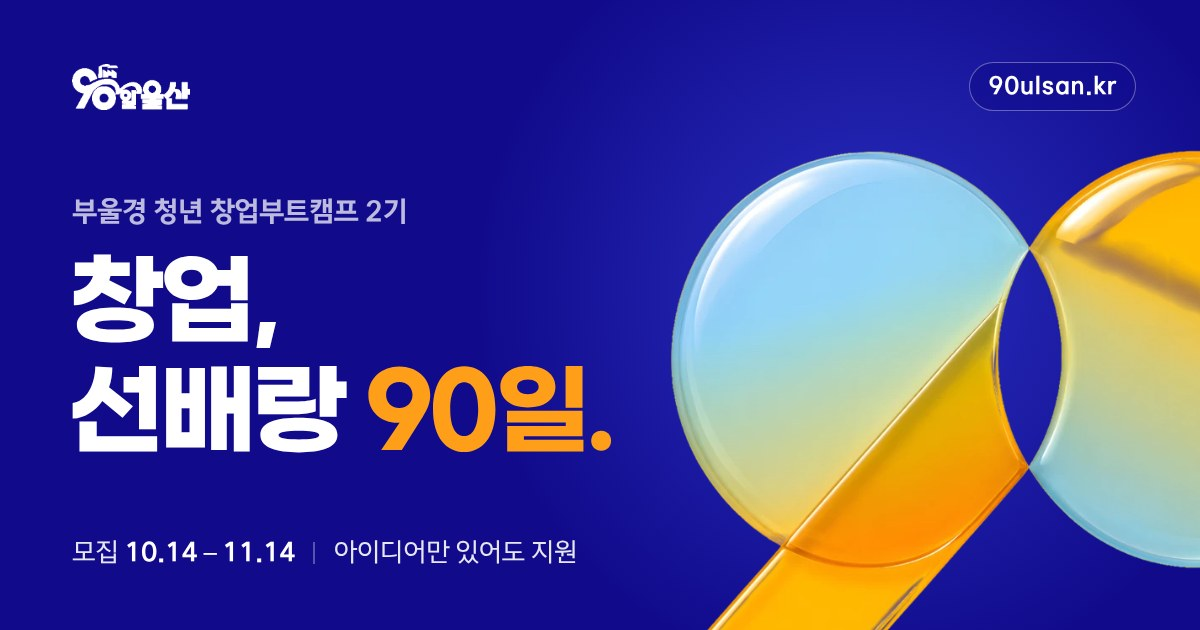
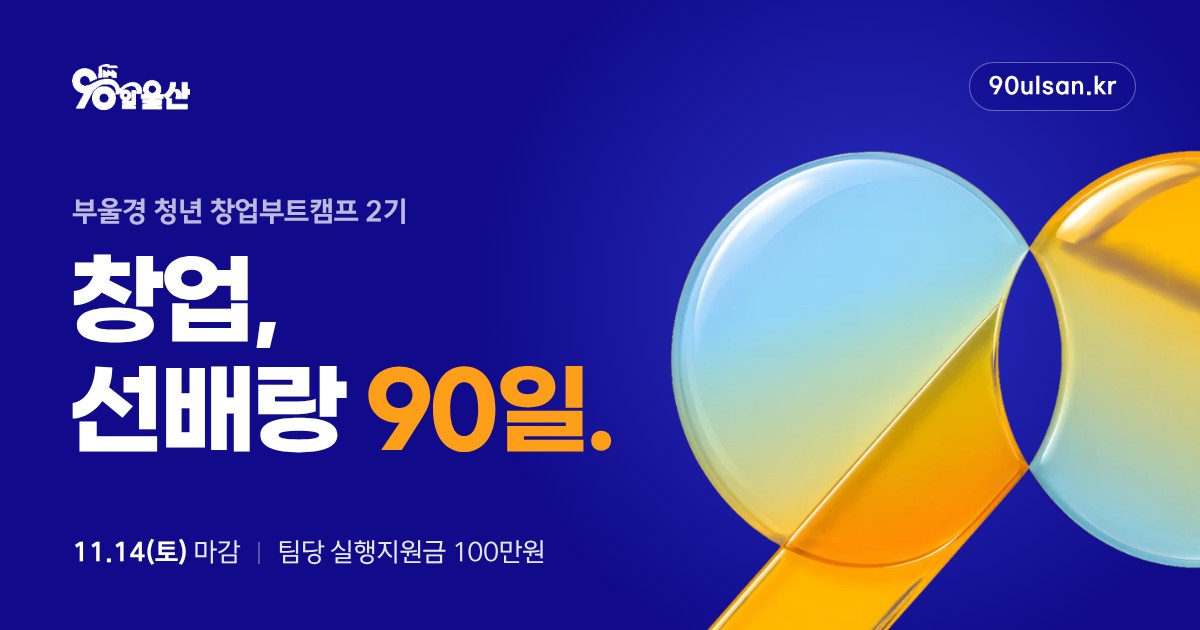
링크 미리보기(OG) 갱신: 모집 10.14 표기 제거 → 11.14(토) 마감·팀당 100만원, 제목·설명 정리
Claude-Session: https://claude.ai/code/session_01UU5TBxw94EbR7PBYQu6TH6

Changed region(s): [[0.0617, 0.8444, 0.4933, 0.9048]]

diff --git a/index.html b/index.html
@@ -5,23 +5,23 @@
 <meta name="viewport" content="width=device-width,initial-scale=1,viewport-fit=cover">
 <script>try{if(matchMedia('(min-width:1024px)').matches&&!/[?&]m=1/.test(location.search))location.replace('pc/'+location.search+location.hash)}catch(e){}</script>
 <title>90일 울산 | 부울경 청년 창업부트캠프 2기 – 혼자 창업 말고, 선배 찬스</title>
-<meta name="description" content="부울경·경북 청년이라면 현직 창업가 선배와 1:1로 90일. 아이디어만 있어도 지원 가능 · 11.14(토) 마감">
+<meta name="description" content="현직 대표·투자자 선배와 1:1, 팀당 실행지원금 100만원. 아이디어만 있어도 OK · 11.14(토) 마감">
 <link rel="canonical" href="https://90ulsan.kr/">
 <meta name="theme-color" content="#000B8C">
 <meta property="og:type" content="website">
 <meta property="og:site_name" content="90일 울산">
 <meta property="og:locale" content="ko_KR">
 <meta property="og:url" content="https://90ulsan.kr/">
-<meta property="og:title" content="혼자 창업 말고, 선배 찬스 | 90일 울산">
-<meta property="og:description" content="부울경·경북 청년이라면 현직 창업가 선배와 1:1로 90일. 아이디어만 있어도 지원 가능 · 11.14(토) 마감">
-<meta property="og:image" content="https://90ulsan.kr/assets/og.jpg">
+<meta property="og:title" content="창업, 선배랑 90일 | 부울경 청년 창업부트캠프 2기">
+<meta property="og:description" content="현직 대표·투자자 선배와 1:1, 팀당 실행지원금 100만원. 아이디어만 있어도 OK · 11.14(토) 마감">
+<meta property="og:image" content="https://90ulsan.kr/assets/og.jpg?v=2">
 <meta property="og:image:width" content="1200">
 <meta property="og:image:height" content="630">
 <meta property="og:image:alt" content="창업, 선배랑 90일. 부울경 청년 창업부트캠프 2기">
 <meta name="twitter:card" content="summary_large_image">
-<meta name="twitter:title" content="혼자 창업 말고, 선배 찬스 | 90일 울산">
-<meta name="twitter:description" content="부울경·경북 청년이라면 현직 창업가 선배와 1:1로 90일. 아이디어만 있어도 지원 가능 · 11.14(토) 마감">
-<meta name="twitter:image" content="https://90ulsan.kr/assets/og.jpg">
+<meta name="twitter:title" content="창업, 선배랑 90일 | 부울경 청년 창업부트캠프 2기">
+<meta name="twitter:description" content="현직 대표·투자자 선배와 1:1, 팀당 실행지원금 100만원. 아이디어만 있어도 OK · 11.14(토) 마감">
+<meta name="twitter:image" content="https://90ulsan.kr/assets/og.jpg?v=2">
 <link rel="icon" href="/favicon.ico" sizes="32x32">
 <link rel="icon" href="/assets/icon.svg" type="image/svg+xml">
 <link rel="apple-touch-icon" href="/assets/apple-touch-icon.png">

diff --git a/pc/index.html b/pc/index.html
@@ -6,12 +6,12 @@
 <script>try{if(!matchMedia('(min-width:1024px)').matches&&!/[?&]pc=1/.test(location.search))location.replace('../'+location.search+location.hash)}catch(e){}</script>
 <script>document.documentElement.className+=' js'</script>
 <title>90일 울산 | 부울경 청년 창업부트캠프 2기 – 혼자 창업 말고, 선배 찬스</title>
-<meta name="description" content="부울경·경북 청년이라면 현직 창업가 선배와 1:1로 90일. 아이디어만 있어도 지원 가능 · 11.14(토) 마감">
+<meta name="description" content="현직 대표·투자자 선배와 1:1, 팀당 실행지원금 100만원. 아이디어만 있어도 OK · 11.14(토) 마감">
 <link rel="canonical" href="https://90ulsan.kr/">
 <meta name="theme-color" content="#000B8C">
 <meta property="og:type" content="website"><meta property="og:site_name" content="90일 울산"><meta property="og:locale" content="ko_KR">
-<meta property="og:url" content="https://90ulsan.kr/"><meta property="og:title" content="혼자 창업 말고, 선배 찬스 | 90일 울산"><meta property="og:description" content="부울경·경북 청년이라면 현직 창업가 선배와 1:1로 90일. 아이디어만 있어도 지원 가능 · 11.14(토) 마감">
-<meta property="og:image" content="https://90ulsan.kr/assets/og.jpg"><meta property="og:image:width" content="1200"><meta property="og:image:height" content="630">
+<meta property="og:url" content="https://90ulsan.kr/"><meta property="og:title" content="창업, 선배랑 90일 | 부울경 청년 창업부트캠프 2기"><meta property="og:description" content="현직 대표·투자자 선배와 1:1, 팀당 실행지원금 100만원. 아이디어만 있어도 OK · 11.14(토) 마감">
+<meta property="og:image" content="https://90ulsan.kr/assets/og.jpg?v=2"><meta property="og:image:width" content="1200"><meta property="og:image:height" content="630">
 <meta name="twitter:card" content="summary_large_image">
 <link rel="icon" href="../favicon.ico" sizes="32x32"><link rel="icon" href="../assets/icon.svg" type="image/svg+xml"><link rel="apple-touch-icon" href="../assets/apple-touch-icon.png">
 <link rel="preload" href="../assets/fonts/goorm-700.woff2" as="font" type="font/woff2" crossorigin>
